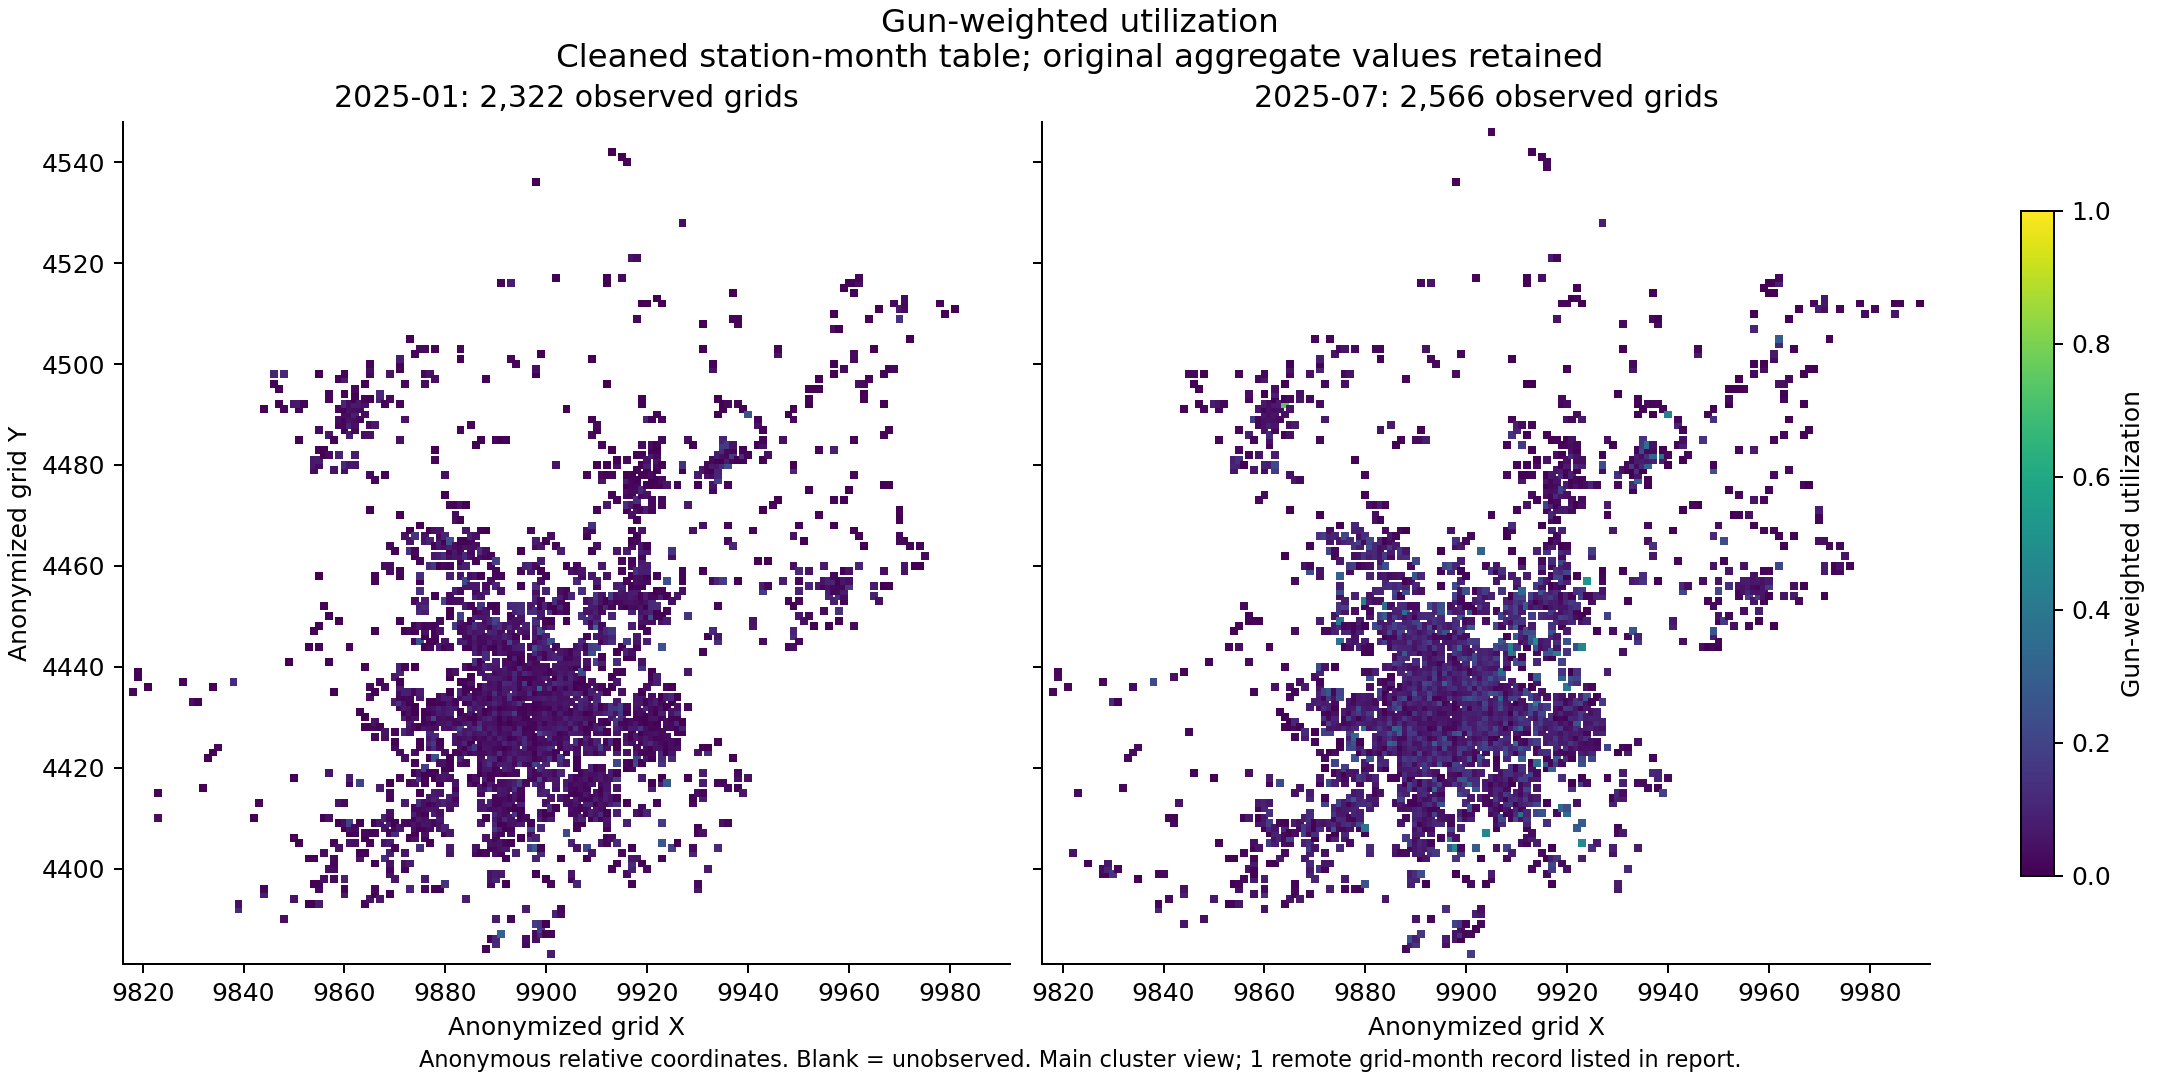
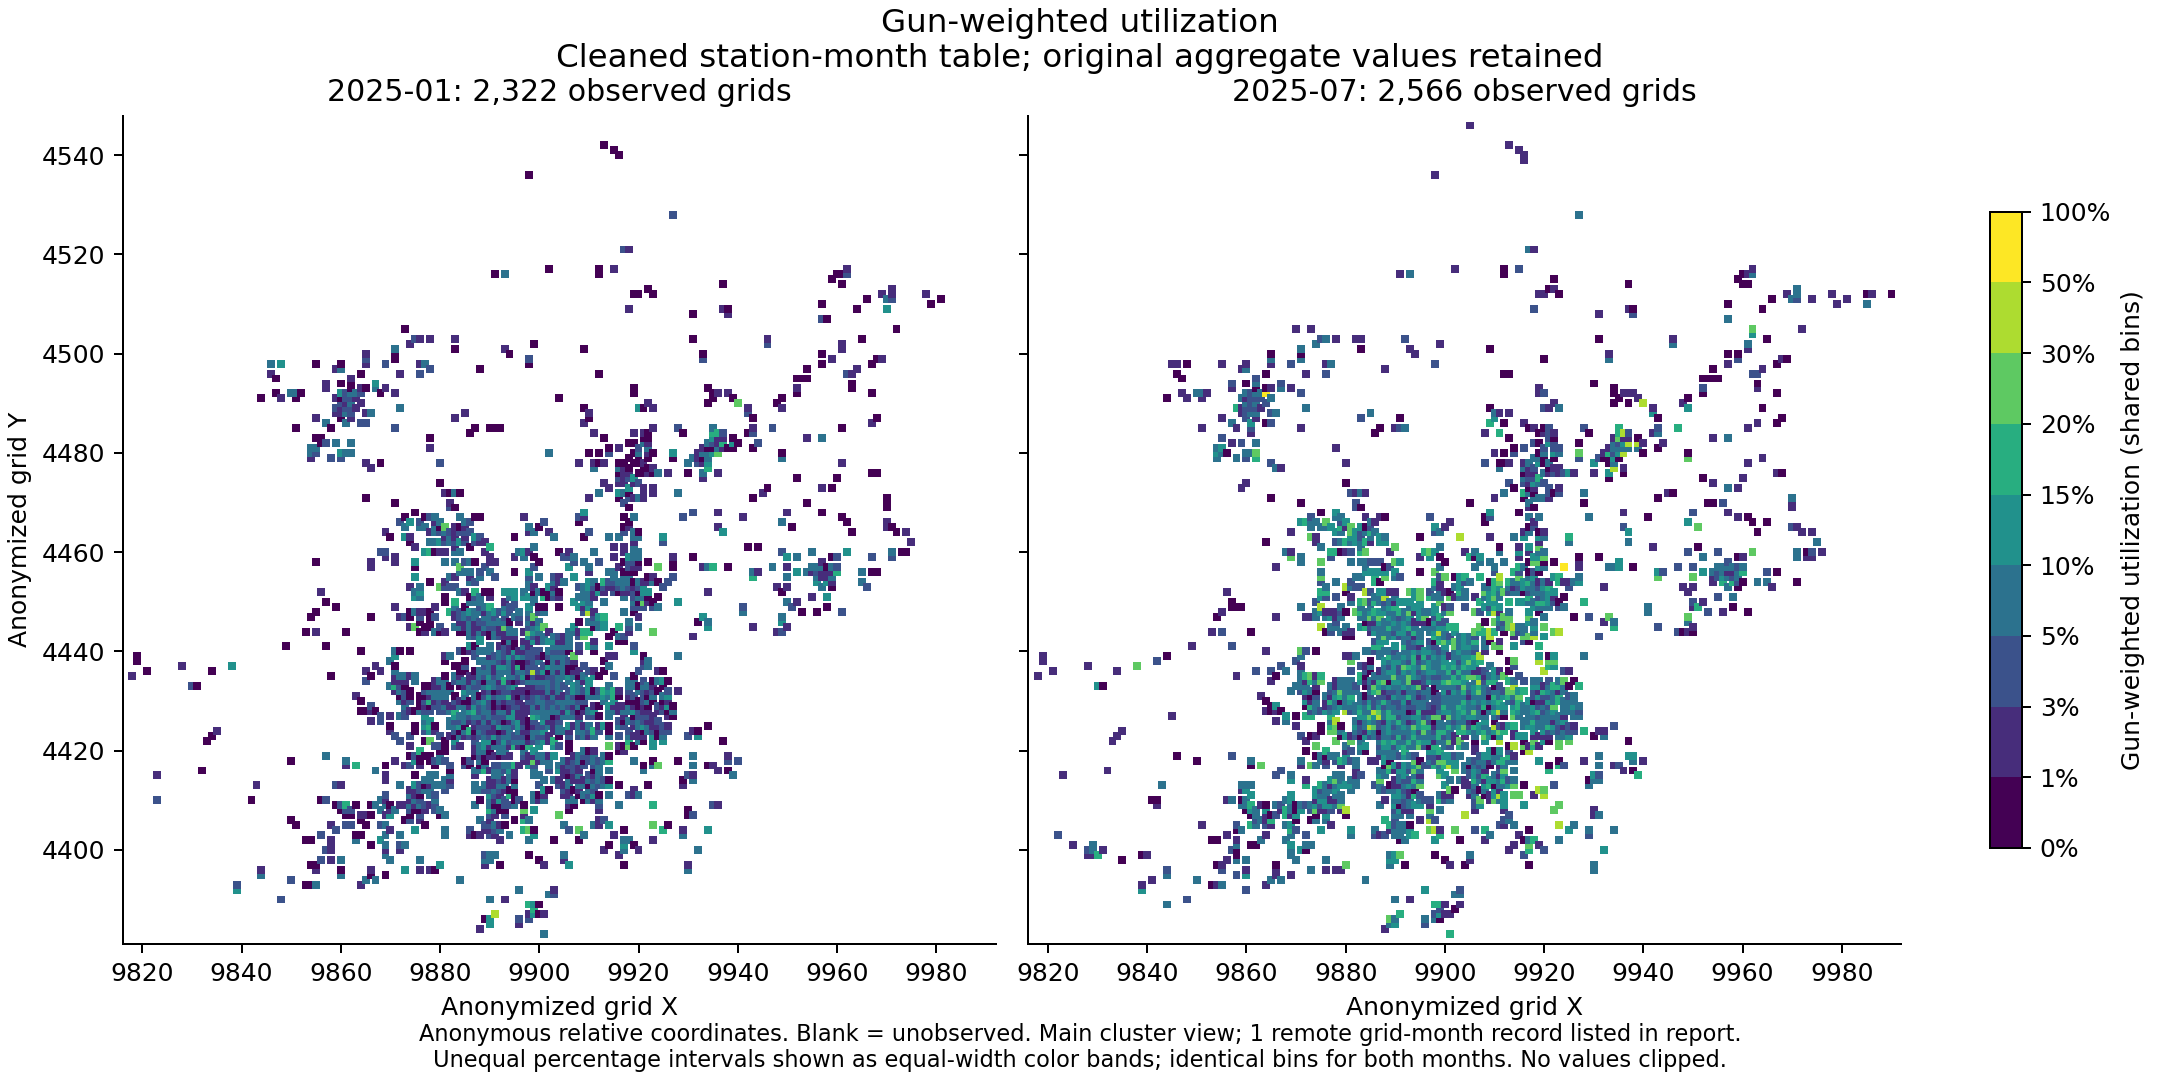
fix: distinguish low grid utilization with shared percentage bins

diff --git a/src/create_spatial_visualizations.py b/src/create_spatial_visualizations.py
@@ -1,18 +1,31 @@
 """Plot anonymized grid attributes from the latest completed cleaned station table."""
+import argparse
 import json
 from pathlib import Path
+import shutil
 
 import matplotlib
 matplotlib.use('Agg')
 import matplotlib.pyplot as plt
-from matplotlib.colors import LogNorm, Normalize
+from matplotlib.colors import BoundaryNorm, LogNorm
+from matplotlib.ticker import PercentFormatter
 import numpy as np
 import pandas as pd
 
 ROOT = Path(__file__).resolve().parents[1]
 
 
+def utilization_color_scale():
+    """Shared exploratory bins, with finer resolution where observations concentrate."""
+    boundaries = np.array([0, .01, .03, .05, .10, .15, .20, .30, .50, 1.0])
+    cmap = plt.get_cmap('viridis', len(boundaries) - 1)
+    return boundaries, BoundaryNorm(boundaries, cmap.N, clip=False), cmap
+
+
 def main():
+    parser = argparse.ArgumentParser(description=__doc__)
+    parser.add_argument('--metric', choices=['all', 'orders', 'energy_kwh', 'utilization'], default='all')
+    args = parser.parse_args()
     manifests = sorted((ROOT/'data/processed').glob('clean_v1_*/cleaning_manifest.json'))
     if not manifests:
         raise SystemExit('Run src/clean_dataset.py first.')
@@ -43,20 +56,43 @@ def main():
              ('energy_kwh', 'Monthly energy (kWh)', '02-grid-energy.png', True),
              ('utilization', 'Gun-weighted utilization', '03-grid-utilization.png', False)]
     for metric, title, name, logarithmic in specs:
+        if args.metric not in ('all', metric):
+            continue
         positive = grid.loc[grid[metric] > 0, metric]
-        norm = LogNorm(vmin=positive.min(), vmax=positive.max()) if logarithmic else Normalize(0, 1)
+        boundaries = None
+        cmap = 'viridis'
+        if logarithmic:
+            norm = LogNorm(vmin=positive.min(), vmax=positive.max())
+        else:
+            values = grid[metric].dropna()
+            if not values.between(0, 1).all():
+                raise ValueError('Utilization outside [0, 1]; audit before plotting.')
+            boundaries, norm, cmap = utilization_color_scale()
+            # Preserve the original project figure before replacing its color scale.
+            original = output/'03-grid-utilization-original-linear.png'
+            if (output/name).exists() and not original.exists():
+                shutil.copy2(output/name, original)
         fig, axes = plt.subplots(1, 2, figsize=(12, 6), sharex=True, sharey=True, layout='constrained')
         for ax, month in zip(axes, ('2025-01', '2025-07')):
             g = main_grid[main_grid.month == month]
-            artist = ax.scatter(g.x, g.y, c=g[metric], norm=norm, cmap='viridis', marker='s', s=10, linewidths=0, rasterized=True)
+            artist = ax.scatter(g.x, g.y, c=g[metric], norm=norm, cmap=cmap, marker='s', s=10, linewidths=0, rasterized=True)
             ax.set(title=f'{month}: {len(g):,} observed grids', xlabel='Anonymized grid X')
             ax.set_aspect('equal', adjustable='box')
             ax.set_xlim(main_grid.x.min()-2, main_grid.x.max()+2)
             ax.set_ylim(main_grid.y.min()-2, main_grid.y.max()+2)
         axes[0].set_ylabel('Anonymized grid Y')
-        fig.colorbar(artist, ax=axes, shrink=0.75, label=title + (' (log color scale)' if logarithmic else ''))
+        colorbar_options = {} if logarithmic else dict(
+            boundaries=boundaries, ticks=boundaries, spacing='uniform',
+            format=PercentFormatter(xmax=1, decimals=0),
+        )
+        fig.colorbar(artist, ax=axes, shrink=0.75,
+                     label=title + (' (log color scale)' if logarithmic else ' (shared bins)'),
+                     **colorbar_options)
         fig.suptitle(title + '\nCleaned station-month table; original aggregate values retained', fontsize=13)
-        fig.supxlabel(f'Anonymous relative coordinates. Blank = unobserved. Main cluster view; {len(offscreen)} remote grid-month record listed in report.', fontsize=9)
+        footer = f'Anonymous relative coordinates. Blank = unobserved. Main cluster view; {len(offscreen)} remote grid-month record listed in report.'
+        if not logarithmic:
+            footer += '\nUnequal percentage intervals shown as equal-width color bands; identical bins for both months. No values clipped.'
+        fig.supxlabel(footer, fontsize=9)
         fig.savefig(output/name, dpi=180)
         plt.close(fig)
     note = f'''# 匿名网格空间可视化
@@ -65,13 +101,15 @@ def main():
 
 - 订单量、电量：同月同网格的多行记录求和，颜色使用对数尺度。
 - 利用率：以充电枪数量加权的月利用率。零枪数时标记缺失，不置零。
+- 利用率色标：两个月份统一使用0%、1%、3%、5%、10%、15%、20%、30%、50%、100%作为分段边界，细分低值区间，不改变利用率、不截断高值。色带等宽展示，但数值区间不等宽；这些是探索性展示分段，不是设施利用优劣的评价标准。
+- 原利用率图使用0%—100%线性色标，另存为 `reports/figures/cleaned/spatial/03-grid-utilization-original-linear.png`。新图仍为 `03-grid-utilization.png`。
 - 网格坐标来自匿名编码，仅显示相对空间结构，不叠加北京真实边界、道路或区县。
 - 空白表示没有观察到记录，不表示需求为零。
 - 主图使用各坐标四分位距外扩10倍的筛选展示主要坐标簇；远端网格保留在数据和总体统计中，不擅自改码。远端记录：{offscreen[['month','grid_id','orders','energy_kwh']].to_dict(orient='records')}。`85_111`与其余约`98xx_44xx`编码相距极远，可能采用了不同编码或存在错误，原因待核实；图中不把它强行放进主要网格簇。
 - **数据限制**：月表清洗只统一了场景名称，订单数、电量和利用率仍为原始汇总。由于订单不含网格或站点键，无法把隔离的20条交易从对应网格电量中扣除。因此这些图不能称为已剔除异常电量后的空间图。
 - 同网格多行不是重复订单，按网格汇总不做简单去重。加权利用率是描述指标，尚不能确认各行枪数不存在重复统计。
 
-运行：`python src/create_spatial_visualizations.py`。
+运行：`python src/create_spatial_visualizations.py`；只更新利用率图：`python src/create_spatial_visualizations.py --metric utilization`。
 '''
     (ROOT/'reports/spatial_review.md').write_text(note, encoding='utf-8')
     print(grid.groupby('month').agg(grids=('grid_id', 'size'), orders=('orders','sum')).to_string())

diff --git a/reports/spatial_review.md b/reports/spatial_review.md
@@ -4,10 +4,12 @@
 
 - 订单量、电量：同月同网格的多行记录求和，颜色使用对数尺度。
 - 利用率：以充电枪数量加权的月利用率。零枪数时标记缺失，不置零。
+- 利用率色标：两个月份统一使用0%、1%、3%、5%、10%、15%、20%、30%、50%、100%作为分段边界，细分低值区间，不改变利用率、不截断高值。色带等宽展示，但数值区间不等宽；这些是探索性展示分段，不是设施利用优劣的评价标准。
+- 原利用率图使用0%—100%线性色标，另存为 `reports/figures/cleaned/spatial/03-grid-utilization-original-linear.png`。新图仍为 `03-grid-utilization.png`。
 - 网格坐标来自匿名编码，仅显示相对空间结构，不叠加北京真实边界、道路或区县。
 - 空白表示没有观察到记录，不表示需求为零。
 - 主图使用各坐标四分位距外扩10倍的筛选展示主要坐标簇；远端网格保留在数据和总体统计中，不擅自改码。远端记录：[{'month': '2025-07', 'grid_id': '85_111', 'orders': 92, 'energy_kwh': 2387.383}]。`85_111`与其余约`98xx_44xx`编码相距极远，可能采用了不同编码或存在错误，原因待核实；图中不把它强行放进主要网格簇。
 - **数据限制**：月表清洗只统一了场景名称，订单数、电量和利用率仍为原始汇总。由于订单不含网格或站点键，无法把隔离的20条交易从对应网格电量中扣除。因此这些图不能称为已剔除异常电量后的空间图。
 - 同网格多行不是重复订单，按网格汇总不做简单去重。加权利用率是描述指标，尚不能确认各行枪数不存在重复统计。
 
-运行：`python src/create_spatial_visualizations.py`。
+运行：`python src/create_spatial_visualizations.py`；只更新利用率图：`python src/create_spatial_visualizations.py --metric utilization`。
